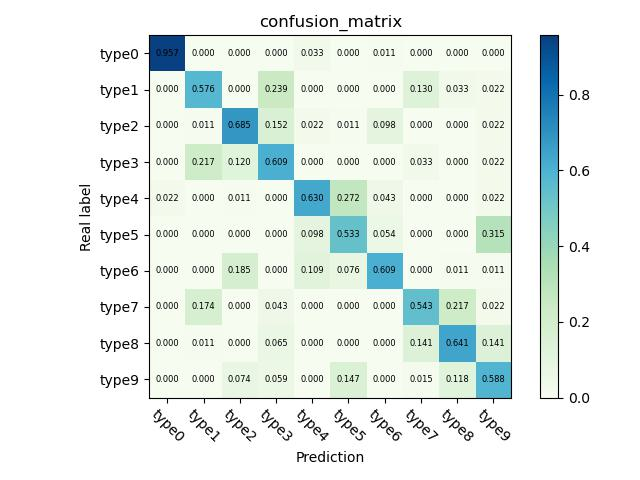
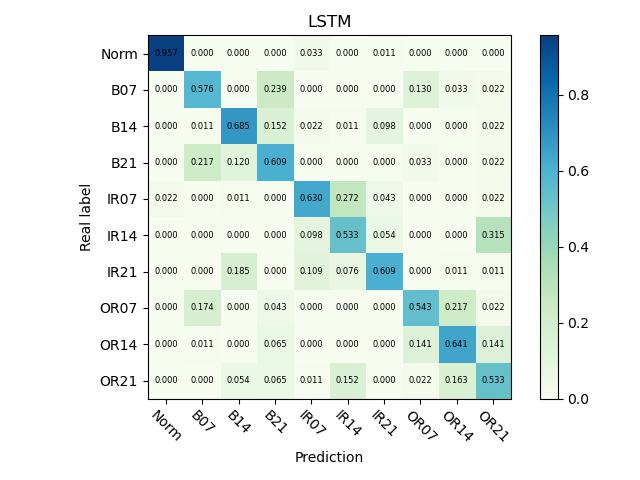
LSTM_FD

diff --git a/visualization.py b/visualization.py
@@ -59,7 +59,7 @@ def confusion_matrix(txt_path, jpg_path):
     # 加载混淆矩阵
     con_matrix = np.loadtxt(txt_path, delimiter=',')
     # 标签
-    classes = ['type0', 'type1', 'type2', 'type3', 'type4', 'type5', 'type6', 'type7', 'type8', 'type9']
+    classes = ['Norm', 'B07', 'B14', 'B21', 'IR07', 'IR14', 'IR21', 'OR07', 'OR14', 'OR21']
     # 标签的个数
     classNamber = 10  # 分类数量
     # 按行进行归一化到(0,1)之间
@@ -68,7 +68,7 @@ def confusion_matrix(txt_path, jpg_path):
     con_matrix = con_matrix.numpy()
 
     plt.imshow(con_matrix, interpolation='nearest', cmap=plt.cm.GnBu)  # 按照像素显示出矩阵,可设置像素背景颜色
-    plt.title('confusion_matrix')
+    plt.title('LSTM')
     plt.colorbar()
     tick_marks = np.arange(len(classes))
     plt.xticks(tick_marks, classes, rotation=-45)
@@ -147,16 +147,16 @@ def tsne(data_tsne, label, class_num):
 
 
 if __name__ == '__main__':
-    group_index = 1
+    group_index = 4
     for i in range(5):
-        txt_path = 'result/result_cu/group{}/exp0{}/confusion_matrix.txt'.format(group_index, i + 1)
-        jpg_path = 'result/result_cu/group{}/exp0{}/confusion_matrix.jpg'.format(group_index, i + 1)
+        txt_path = 'result/result_cu_noisy/group{}/exp0{}/confusion_matrix.txt'.format(group_index, i + 1)
+        jpg_path = 'result/result_cu_noisy/group{}/exp0{}/confusion_matrix.jpg'.format(group_index, i + 1)
         confusion_matrix(txt_path, jpg_path)
 
-        train_result_path = 'result/result_cu/group{}/exp0{}/train_result.txt'.format(group_index, i + 1)
-        val_result_path = 'result/result_cu/group{}/exp0{}/val_result.txt'.format(group_index, i + 1)
+        train_result_path = 'result/result_cu_noisy/group{}/exp0{}/train_result.txt'.format(group_index, i + 1)
+        val_result_path = 'result/result_cu_noisy/group{}/exp0{}/val_result.txt'.format(group_index, i + 1)
         #draw(train_result_path, val_result_path, epochs=100)
-    estimate_path = 'result/result_cu/group{}'.format(group_index)
+    estimate_path = 'result/result_cu_noisy/group{}'.format(group_index)
     estimate(estimate_path)
 
     # tsne

diff --git a/estimate.py b/estimate.py
@@ -1,0 +1,21 @@
+import os
+import torch
+from model import RegLSTM
+from torchsummary import summary
+
+
+if __name__ == '__main__':
+    os.environ['CUDA_VISIBLE_DEVICES'] = "0"
+    N = 4 #编码器个数
+    input_dim = 1024
+    seq_len = 16 #句子长度
+    hidden_size = 128
+    lr = 6E-5 #学习率
+
+    net = RegLSTM(input_dim=input_dim, input_size=seq_len, hidden_size=hidden_size, hidden_num_layers=N)
+    device = torch.device("cuda:0")
+    net = net.to(device)
+
+    input_data = torch.randn(1, 1024)
+    input_data = input_data.squeeze() # 适应summary()的输入维度,因为summary会给输入拼接一个维度
+    summary(net, input_data.size())
